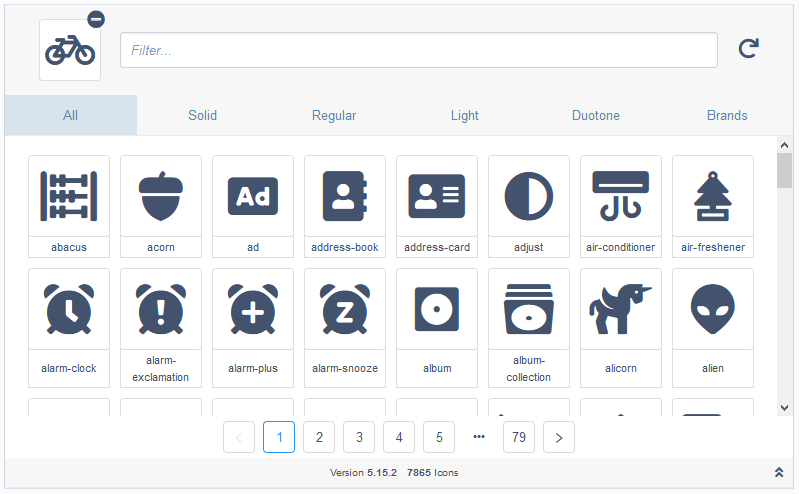
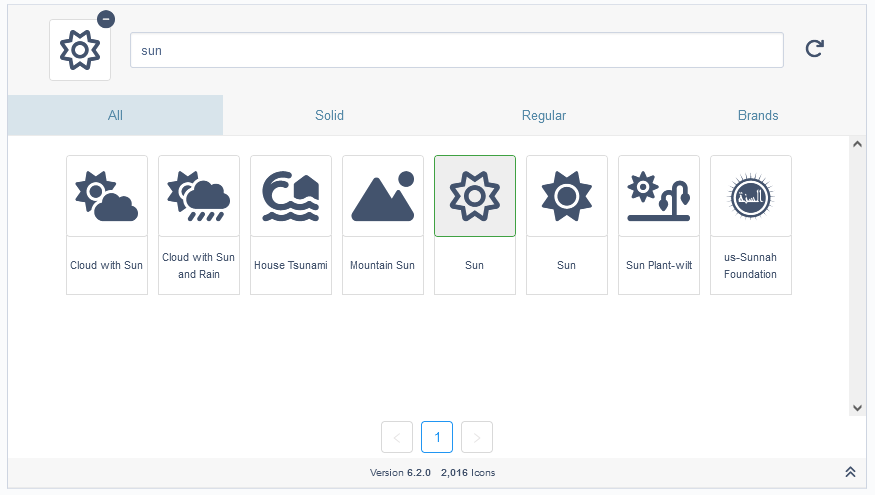
updated readme

diff --git a/README.md b/README.md
@@ -1,30 +1,25 @@
 # Font Awesome Icon Picker
 
-Adds a Font Awesome 5 icon picker to SilverStripe 4.
-This comes bundled with the free version of Fontawesome 5.15.2.
-This will work with Fontawesome 5.15.2 pro out-of-the-box (but does not come bundled with it).
+Adds a Font Awesome 6.x icon picker to SilverStripe 4.
+This uses the CDN for Fontawesome 6.2.0.
+This will work with Fontawesome 6.2.0 pro out-of-the-box (but you will need to have a copy of the kit).
 
 ### With the Free version of Font Awesome
-
-![Overview of Image Cropper Field](screenshots/screenshot1.PNG)
-
-### With the Pro version of Font Awesome
-
-![Overview of Image Cropper Field](screenshots/screenshot2.PNG)
-
-### Smaller starting size!
-
-The Font Awesome Icon Picker field is now much smaller to start out with.
-It can be expanded to show the list of icons, search, and icon type selector.
-
+Starts out slim:  
+![Overview of Image Cropper Field](screenshots/screenshot1.PNG)  
+Expands to allow you to seach for your desired icon:
+![Overview of Image Cropper Field](screenshots/screenshot2.PNG)  
+A list of your recently toggled icons:  
 ![Overview of Image Cropper Field](screenshots/screenshot3.PNG)
 
-### NEW Recently used icon list!
-
-By clicking the button in the screenshot below, it will open a recently used dropdown list.
-This list carries over between fields, so you can quickly select icons that you recently used.
-
-![Overview of Image Cropper Field](screenshots/screenshot4.PNG)
+### With the Pro version of Font Awesome
+Everything that you can do in the free version, you can do in the pro version. The pro version however comes with more options.  
+  
+When enabled, Light and Duotone icon styles are unlocked:
+![Overview of Image Cropper Field](screenshots/screenshot4-pro.PNG)
+  
+Sharp icons, by default, are enabled when you switch to pro:
+![Overview of Image Cropper Field](screenshots/screenshot5-pro.PNG)
 
 ## Requirements
 
@@ -46,17 +41,15 @@ Simply add the field to a DataObject or Page like you normally would.
 This will save the Font Awesome Icon's class info to a dbfield for use on the front end.
 
 ```php
-
 use BucklesHusky\FontAwesomeIconPicker\Forms\FAPickerField;
 use SilverStripe\ORM\DataObject;
 
 class TestDataObject extends DataObject
 {
-
     private static $table_name = "TestDataObject";
 
     private static $db = [
-        'FAIcon' => 'Varchar(100)',
+        'FAIcon' => 'Varchar(255)',
     ];
 
     public function getCMSFields()
@@ -72,70 +65,111 @@ class TestDataObject extends DataObject
     }
 }
 ```
+  
+  
+If needed, you can add the following to your `PageController` or any page controller that extends `PageController`. This can be added to the `init()` method like below:
+
+```php
+protected function init()
+{
+    parent::init();
+
+    // get the requirements to render fontawesome icons
+    $this->fontAwesome();
+}
+```
 
 ### Notes
 
-This has not been tested for use on the frontend of a site.
+The field has not been tested for use on the frontend of a site.
 
-### Settings
-
-**Enable Font Awesome Pro**
-To enable Font Awesome Pro, add this to your yml file. Replace `all.min.css` with the Font Awesome Pro css name.
-
-```yml
-FontawesomeIcons:
-    unlock_pro_mode: true
-    css: "all.min.css"
-```
-
-**Adding your own icons:**
-To add your own icons from another (css) icon set, you can add this to your yml file:
+### Settings  
+  
+**Enable Font Awesome Pro**  
+To enable Font Awesome Pro, add this to your yml file.  
+Replace `all.min.css` and `sharp-solid.min.css` with the Font Awesome Pro css name.  
+These files should be located in your theme's css folder. 
 
 ```yml
+# settings for FontawesomeIcons
 FontawesomeIcons:
-    extra_requirements_css:
-        - "themes/{your theme}/css/iconpack.css"
-        - "themes/{your theme}/css/inconpack2.css"
-    icons:
-        - "{css icon class}"
-        - "{css icon class}"
+  unlock_pro_mode: true
+  pro_css: 'all.min.css'
+  pro_sharp_css: 'sharp-solid.min.css' # not needed if sharp is disabled
 ```
 
-**Removing icons:**
-This only works for the built in Font Awesome icons.
-Simply add this to your yml and list the icons you don't
-want your users to be able to select.
+**Options:**
+| Option               | Description                                                                                                                                                            | Values                          | default |
+|----------------------|------------------------------------------------------------------------------------------------------------------------------------------------------------------------|---------------------------------|---------|
+| free_css_cdn_version | for the **FREE version**. This is the version to get from the fontawesome CDN. This can be used to get the new version. You will still need a copy of `icon-families.yml`. | the version to get from the CDN | 6.2.0   |
+| unlock_pro_mode      | enable this to switch to **PRO version**                                                                                                                                      | true/false                      | false   |
+| disable_sharp_icons  | with this enabled, the sharp icons will not be loaded. `pro_sharp_css` will also not be required.                                                        | true/false                      | false   |
+| pro_css              | the name of the **PRO version** css file                                                                                                                                   | string                          |         |
+| pro_sharp_css        | the name of the **PRO version sharp** css file                                                                                                                                     | string                          |         |
+|                      |                                                                                                                                                                        |                                 |         |
+  
+  
+**How to setup the PRO version of fontawesome?**  
+- You will need to download a kit from the [fontawesome site](https://fontawesome.com/sessions/sign-in?next=%2F). 
+- Grab the css file for `all.min.css` and `sharp-solid.min.css` and place it in your theme's css folder.
+- Grab the `webfonts` folder and place it in your theme's folder. Example `themes\simple`.
+- update your config:
+    ```yml
+    FontawesomeIcons:
+        unlock_pro_mode: false
+        # the css of all and sharp-solid
+        pro_css: 'all.min.css'
+        # not needed if sharp is disabled
+        pro_sharp_css: 'sharp-solid.min.css'
+    ```
 
+**How do I use a newer version of Fontawesome?**  
+- Get a copy of `icon-families.yml`. 
+    - You can obtain this from their [github](https://github.com/FortAwesome/Font-Awesome/blob/6.x/metadata/icon-families.yml). 
+- Place this file into your `app\_config` folder.
+- Open the file.
+- Indent everything in the file by 2 spaces and save. 
+- Add the following to the top of the file
 ```yml
-FontawesomeIcons:
-    remove:
-        - "fas fa-ad"
-        - "fas fa-air-freshener"
+---
+name: my-icon-list
+after: buckleshusky-fontawesomeiconpicker-icons
+---
+FontawesomeIconsList:
 ```
-
-**Disabling built in Font Awesome:**
-If you want to use your own icons or a version of Font Awesome that is not supported,
-you can disable the built in Font Awesome. If you decide to add your own,
-you will need a yml list of icons.
-
+- Your file should look something like the following:
 ```yml
-FontawesomeIcons:
-    disable_builtin_fontawesome: true
-    my_icons:
-        - "new icon"
-        - "new icon"
-        - "new icon"
-        - "new icon"
+---
+name: my-icon-list
+after: buckleshusky-fontawesomeiconpicker-icons
+---
+FontawesomeIconsList-disable:
+  '0':
+    changes:
+      - 6.0.0-beta1
+      - 6.2.0
+    familyStylesByLicense:
+      free:
+[...]
 ```
+- For the **FREE version**: 
+    - add the following to your yml with the desired version you would like from the CDN:
+    ```yml
+    FontawesomeIcons:
+      free_css_cdn_version: '6.3.0'
+    ```
+- For the **PRO version**: 
+    - follow the steps above for **How to setup the PRO version of fontawesome?**
 
 ### What's New
 
--   new recent icons list
--   completely react driven
--   fontawesome pro now loads much faster
--   it now works in react sections of silverstripe (File section)
--   field is now smaller and expands to allow you to select a new icon
--   you can now remove the selected icon
--   icons are now paginated
--   list of icons sizes are now bigger
--   added tooltip to show the name of the selcted icon
+- updated to support 6.x
+- improved icon search
+- uses icon-families.yml (with a small customization), to create the icon list
+- added support for sharp icons
+
+### Future
+- add back in removing icons
+    - removed for now to clean this up and get it released
+- add documentation for adding your own icons
+- dynamic generating of style types
